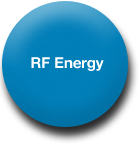
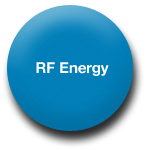
font fixex

diff --git a/Resources/views/content/access_and_navigation.js b/Resources/views/content/access_and_navigation.js
@@ -73,7 +73,7 @@ Views.content.access_and_navigation = function(win) {
 	var video = Ti.UI.createButton({
 		backgroundImage:"images/video_button.png",
 		title: "Cavity Creation",
-		font:{fontSize:13, fontWeight:"regular"},
+		font:{fontSize:15, fontWeight:"regular"},
 		color:"black",
 		width: 245,
 		height: 50,
@@ -90,7 +90,7 @@ Views.content.access_and_navigation = function(win) {
 	var video2 = Ti.UI.createButton({
 		backgroundImage:"images/video_button.png",
 		title: "MidLine Osteotome",
-		font:{fontSize:12, fontWeight:"regular"},
+		font:{fontSize:15, fontWeight:"regular"},
 		color:"black",
 		width: 245,
 		height: 50,
